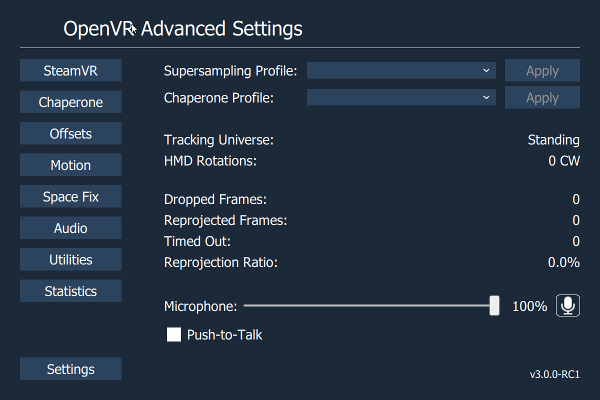
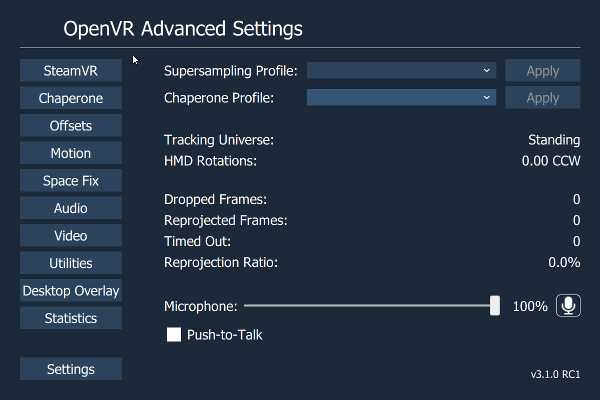
updated documentation minor fixes

diff --git a/src/res/qml/video_page/brightness/BrightnessGroupBox.qml b/src/res/qml/video_page/brightness/BrightnessGroupBox.qml
@@ -84,7 +84,7 @@ GroupBox {
                         var v = (val/100).toFixed(2)
                             brightnessSlider.value = v
                     }
-                    text = Math.round(VideoTabController.boundsVisibility * 100) + "%"
+                    text = Math.round(VideoTabController.brightnessValue * 100) + "%"
                 }
             }
         }

diff --git a/src/tabcontrollers/VideoTabController.cpp b/src/tabcontrollers/VideoTabController.cpp
@@ -18,25 +18,23 @@ void VideoTabController::initStage2( OverlayController* var_parent,
                            + ".dimnotification";
 
     vr::VROverlayError overlayError = vr::VROverlay()->CreateOverlay(
-        notifKey.c_str(),
-        notifKey.c_str(),
-        &m_brightnessNotificationOverlayHandle );
+        notifKey.c_str(), notifKey.c_str(), &m_brightnessOverlayHandle );
     if ( overlayError == vr::VROverlayError_None )
     {
         const auto notifIconPath = paths::binaryDirectoryFindFile(
             video_keys::k_brightnessOverlayFilename );
         if ( notifIconPath.has_value() )
         {
-            vr::VROverlay()->SetOverlayFromFile(
-                m_brightnessNotificationOverlayHandle, notifIconPath->c_str() );
-            vr::VROverlay()->SetOverlayWidthInMeters(
-                m_brightnessNotificationOverlayHandle, k_overlayWidth );
+            vr::VROverlay()->SetOverlayFromFile( m_brightnessOverlayHandle,
+                                                 notifIconPath->c_str() );
+            vr::VROverlay()->SetOverlayWidthInMeters( m_brightnessOverlayHandle,
+                                                      k_overlayWidth );
             vr::HmdMatrix34_t notificationTransform
                 = { { { 1.0f, 0.0f, 0.0f, 0.00f },
                       { 0.0f, 1.0f, 0.0f, 0.00f },
                       { 0.0f, 0.0f, 1.0f, k_hmdDistance } } };
             vr::VROverlay()->SetOverlayTransformTrackedDeviceRelative(
-                m_brightnessNotificationOverlayHandle,
+                m_brightnessOverlayHandle,
                 vr::k_unTrackedDeviceIndex_Hmd,
                 &notificationTransform );
         }
@@ -100,9 +98,10 @@ void VideoTabController::setBrightnessEnabled( bool value, bool notify )
     if ( value != m_brightnessEnabled )
     {
         m_brightnessEnabled = value;
+        auto overlayHandle = getBrightnessOverlayHandle();
         if ( value )
         {
-            if ( getBrightnessOverlayHandle() != vr::k_ulOverlayHandleInvalid )
+            if ( overlayHandle != vr::k_ulOverlayHandleInvalid )
             {
                 vr::VROverlay()->ShowOverlay( getBrightnessOverlayHandle() );
                 LOG( INFO ) << "Brightness Overlay toggled on";
@@ -110,7 +109,7 @@ void VideoTabController::setBrightnessEnabled( bool value, bool notify )
         }
         else
         {
-            if ( getBrightnessOverlayHandle() != vr::k_ulOverlayHandleInvalid )
+            if ( overlayHandle != vr::k_ulOverlayHandleInvalid )
             {
                 vr::VROverlay()->HideOverlay( getBrightnessOverlayHandle() );
                 LOG( INFO ) << "Brightness Overlay toggled off";
@@ -138,7 +137,7 @@ void VideoTabController::setBrightnessValue( float percvalue, bool notify )
         {
             m_opacityValue = realvalue;
             vr::VROverlayError overlayError = vr::VROverlay()->SetOverlayAlpha(
-                m_brightnessNotificationOverlayHandle, realvalue );
+                m_brightnessOverlayHandle, realvalue );
             if ( overlayError != vr::VROverlayError_None )
             {
                 LOG( ERROR ) << "Could not set alpha: "
@@ -164,7 +163,7 @@ void VideoTabController::setBrightnessValue( float percvalue, bool notify )
 void VideoTabController::setOpacityValue()
 {
     vr::VROverlayError overlayError = vr::VROverlay()->SetOverlayAlpha(
-        m_brightnessNotificationOverlayHandle, m_opacityValue );
+        m_brightnessOverlayHandle, m_opacityValue );
     if ( overlayError != vr::VROverlayError_None )
     {
         LOG( ERROR ) << "Could not set alpha: "

diff --git a/src/tabcontrollers/VideoTabController.h b/src/tabcontrollers/VideoTabController.h
@@ -34,7 +34,7 @@ private:
     OverlayController* parent;
     QQuickWindow* widget;
 
-    vr::VROverlayHandle_t m_brightnessNotificationOverlayHandle
+    vr::VROverlayHandle_t m_brightnessOverlayHandle
         = vr::k_ulOverlayHandleInvalid;
     float m_opacityValue = 0.0f;
     float m_brightnessValue = 1.0f;
@@ -51,7 +51,7 @@ private:
 
     vr::VROverlayHandle_t getBrightnessOverlayHandle()
     {
-        return m_brightnessNotificationOverlayHandle;
+        return m_brightnessOverlayHandle;
     }
 
 public:

diff --git a/Readme.md b/Readme.md
@@ -23,6 +23,7 @@
  >   * [Motion Page](#motion_page)
  >   * [Space Fix Page](#space_fix_page)
  >   * [Audio Page](#audio_page)
+ >   * [Video Page](#video_page)
  >   * [Utilities Page](#utilities_page)
  >   * [Desktop Overlay Page](#desktop_overlay_page)
  >   * [Statistics Page](#statistics_page)
@@ -317,6 +318,15 @@ Allows users to temporarily move and rotate the center of the playspace. This al
   - **NOTE**: The Push-to-talk box must be enabled for this feature to work.
 - **Audio Profile**: Allows you to apply/define/delete audio profiles that save playback devices, mute state, and volume.
 
+<a name="video_page"></a>
+## - Video Page:
+
+![Video Page](docs/screenshots/VideoPage.png)
+
+- **Brightness**: Allows Dimming of your view.
+  - **On/Off**: Toggles The Dimming on/off.
+  - **Brightness**: The amount of dimming.
+  - **Note**: Does not necessarily reduce light output of HMD will vary based on panel type etc.
 
 <a name="utilities_page"></a>
 ## - Utilities Page:
